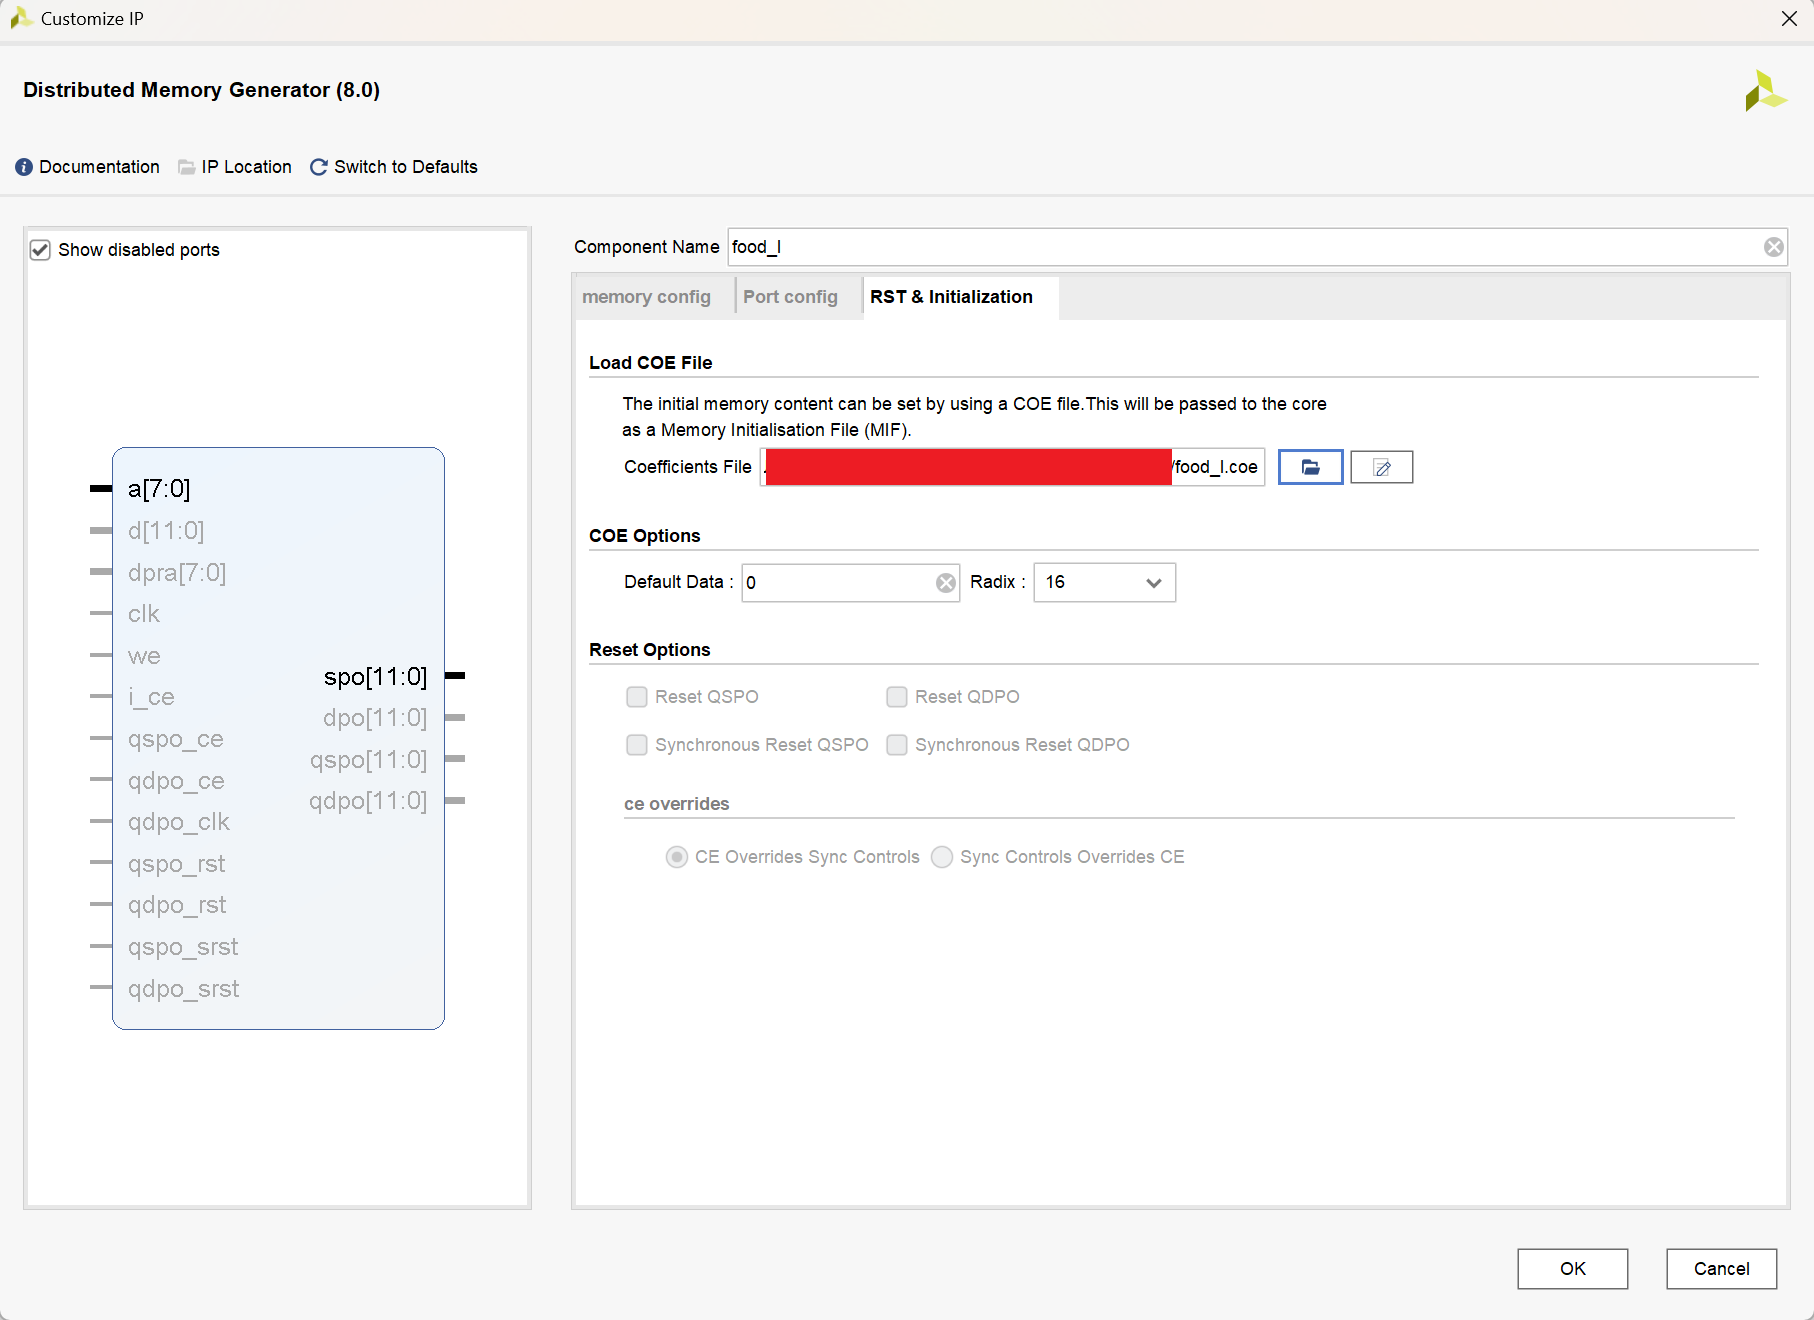
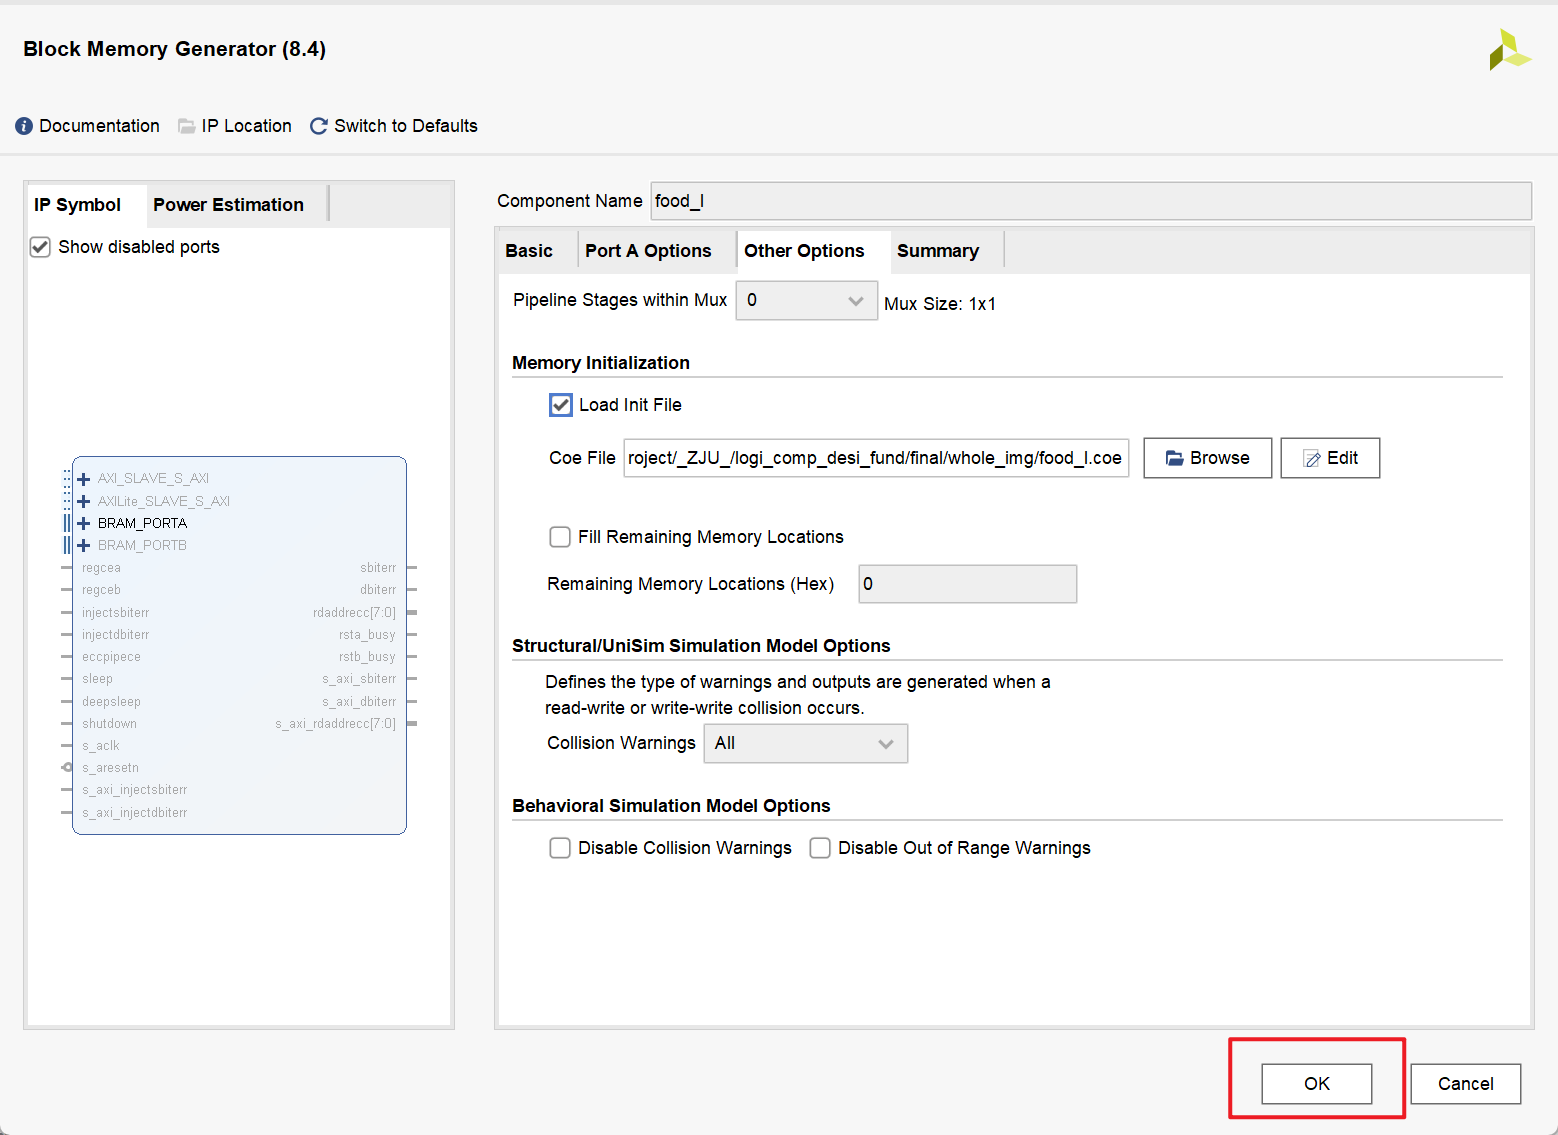
fix digital_lab docs

diff --git a/docs/zju/basic_courses/digital_logic_design/lab/final.md b/docs/zju/basic_courses/digital_logic_design/lab/final.md
@@ -34,7 +34,7 @@
     ![Img 29](../../../../img/digital_logic_design/lab/final/lab_final_img24.png){width="800"}
 </figure>
 
-## 2 VGA设计思路
+## 2 VGA 设计思路
 
 > 参考：<br/>
 > 1. [基于rom的vga图像显示](https://doc.embedfire.com/fpga/altera/ep4ce10_pro/zh/latest/code/rom_vga.html){:target="_blank"}
@@ -45,7 +45,7 @@
     ![Img 16](../../../../img/digital_logic_design/lab/final/lab_final_img16.png){width="600"}
 </figure>
 
-### 2.1 clk_gen模块
+### 2.1 clk_gen 模块
 
 此模块助教已提供，产生 $25MHz$ 的 $clk$ 信号，用于 $VGA$ 的运作
 
@@ -63,7 +63,7 @@ module clk_gen(
 endmodule
 ```
 
-### 2.2 vga_ctrl模块
+### 2.2 vga_ctrl 模块
 
 此模块助教已提供。接收像素点的色彩信息（$Din$），输出当前像素点的坐标（$row,col$）和 $VGA$ 有关的变量（$R,G,B,HS,VS$）
 
@@ -132,11 +132,11 @@ endmodule
     
     更加详细严谨的内容，浏览器搜索 rgb332
 
-### 2.3 vga_screen_pic模块
+### 2.3 vga_screen_pic 模块
 
 核心模块，输出当前像素点的色彩信息并提供给 $vga\_ctrl$ 模块
 
-#### 2.3.1 IP核的生成
+#### 2.3.1 IP 核的生成
 
 ##### 图片制作
 
@@ -213,10 +213,9 @@ endmodule
 > 参考：<br/>
 > 1. [VGA显示图像 详细总结](https://blog.csdn.net/weixin_44406200/article/details/103823607){:target="_blank"}，原文部分有误，本文档已修正
 
-所有图片导出为24位 $.bmp$ 文件，并使用 $Matlab$ 将其转换为符合格式的 $.coe$ 文件。
+所有图片导出为 24 位 $.bmp$ 文件，并使用 $Matlab$ 将其转换为符合格式的 $.coe$ 文件。
 
 > Matlab 下载：[浙江大学校园正版化软件平台](http://ms.zju.edu.cn/matlab/download.html){:target="_blank"}
-
 
 ??? tip "PS 导出为 .bmp 文件" 
 
@@ -341,31 +340,39 @@ c71,
     ![Img 6](../../../../img/digital_logic_design/lab/final/lab_final_img6.png){width="500"}
 </figure>
 
-##### 生成IP核
+##### 生成 IP 核
 
-利用 $vivado$ 生成IP核，导入 $.coe$ 文件，选择生成 $ROM$
+利用 $vivado$ 生成 IP 核，导入 $.coe$ 文件，选择生成 $ROM$
 
 <div class="annotate" markdown>
 
-??? tip "vivado 生成 ROM"
+???+ tip "vivado 生成 ROM"
 
-    打开项目工程文件，点击左侧的 ^^IP Catalog^^，搜索 ROM，双击 ^^Distributed Memory Generator^^
+    打开项目工程文件，点击左侧的 ^^IP Catalog^^，搜索 ROM，双击 ^^Block Memory Generator^^
 
-    > ^^Distributed Memory Generator^^ 会生成不包含时钟信号的存储器，^^Block Memory Generator^^ 会生成包含时钟信号的存储器 (1) ，我们组的实现方案不需要时钟信号，因此选择生成 ^^Distributed Memory Generator^^
+    > ^^Distributed Memory Generator^^ 会生成不包含时钟信号的存储器，^^Block Memory Generator^^ 会生成包含时钟信号的存储器 (1) ，我们组的实现方案不需要时钟信号，本应该选择生成 ^^Distributed Memory Generator^^，但是由于 ^^Distributed Memory Generator^^ 支持的 Depth 上限值小于 307200（大图片 640 x 480），因此只能选择 ^^Block Memory Generator^^，影响不大
 
     <figure markdown="span">
         ![Img 7](../../../../img/digital_logic_design/lab/final/lab_final_img7.png)
     </figure>
 
-    > 图中的工程文件是我随便找的，用来截图做示范的，所以图中的源文件不需要关注
+    可以重命名模块名称，设置 Interface Type 为 Native，设置 Memory Type 为 Single Port ROM
 
-    可以重命名模块名称，设置 Depth 为 256（因为此图片共 256 个像素点），设置 Data Width 为 12（因为每个像素点的颜色数据为 12 bit）。类似的，如果是 game_start 这张图片，Depth 应设置为 640 x 480 = 307200，Data Width 仍为 12。Memory Type 选择 ROM
+    <figure markdown="span">
+        ![Img 47](../../../../img/digital_logic_design/lab/final/lab_final_img47.jpg)
+    </figure>
+
+    上方选项卡选择 Port A Options，设置 Depth 为 256（因为小图片 16 x 16 共 256 个像素点），设置 Data Width 为 12（因为每个像素点的颜色数据为 12 bit）。类似的，如果是 game_start 这种大图片，Depth 应设置为 640 x 480 = 307200，Data Width 仍为 12
+
+    设置 Enable Port Type 为 Always Enabled
+
+    > 当时我实现的时候勾选了 Primitives Output Register，但是现在看来，应该不需要勾选。不过问题不大，对最后结果的影响可忽略不计
 
     <figure markdown="span">
         ![Img 8](../../../../img/digital_logic_design/lab/final/lab_final_img8.png)
     </figure>
 
-    上方选项卡选择 RST & Initialization，点击红框中的按钮加载 .coe 文件
+    上方选项卡选择 Other Options，勾选 Load Init File，点击红框中的按钮加载 .coe 文件
 
     <figure markdown="span">
         ![Img 9](../../../../img/digital_logic_design/lab/final/lab_final_img9.png)
@@ -395,13 +402,11 @@ c71,
         ![Img 13](../../../../img/digital_logic_design/lab/final/lab_final_img13.png){width="400"}
     </figure>
 
-    > 图中的工程文件是我随便找的，用来截图做示范的，所以图中的源文件不需要关注
-
 </div>
 
 1. 有无时钟信号确实是一个区别，但是主要区别并不是有无时钟信号
 
-#### 2.3.2 IP核的调用
+#### 2.3.2 IP 核的调用
 
 模块接口以及变量定义与初始化：
 
@@ -472,15 +477,17 @@ IP 核的调用：
 ```verilog linenums="1" title="vga_screen_pic.v"
 
 food_l food_l0(
-    .a(pic_romaddr0),  // 注意此图片（16 x 16）使用 pic_romaddr0
-    .spo(food_l_data)
+    .addra(pic_romaddr0),  // 注意此图片（16 x 16）使用 pic_romaddr0
+    .clka(clk),  // 传入 clk 信号
+    .douta(food_l_data)
 );
 
 -- snip --
 
 game_start game_start0(
-    .a(pic_romaddr1),  // 注意此图片（640 x 480）使用 pic_romaddr1
-    .spo(game_start_data)
+    .addra(pic_romaddr1),  // 注意此图片（640 x 480）使用 pic_romaddr1
+    .clka(clk),  // 传入 clk 信号
+    .douta(game_start_data)
 );
 
 -- snip --
@@ -494,16 +501,12 @@ game_start game_start0(
     <figure markdown="span">
         ![Img 14](../../../../img/digital_logic_design/lab/final/lab_final_img14.png){width="400"}
     </figure>
-    
-    > 图中的工程文件是我随便找的，用来截图做示范的，所以图中的源文件不需要关注
 
     这里给出了调用代码示例，可以直接复制粘贴使用
 
     <figure markdown="span">
         ![Img 15](../../../../img/digital_logic_design/lab/final/lab_final_img15.png){width="400"}
     </figure>
-
-    > 图中的工程文件是我随便找的，用来截图做示范的，所以图中的源文件不需要关注
 
 计算正确的色彩信息：
 
